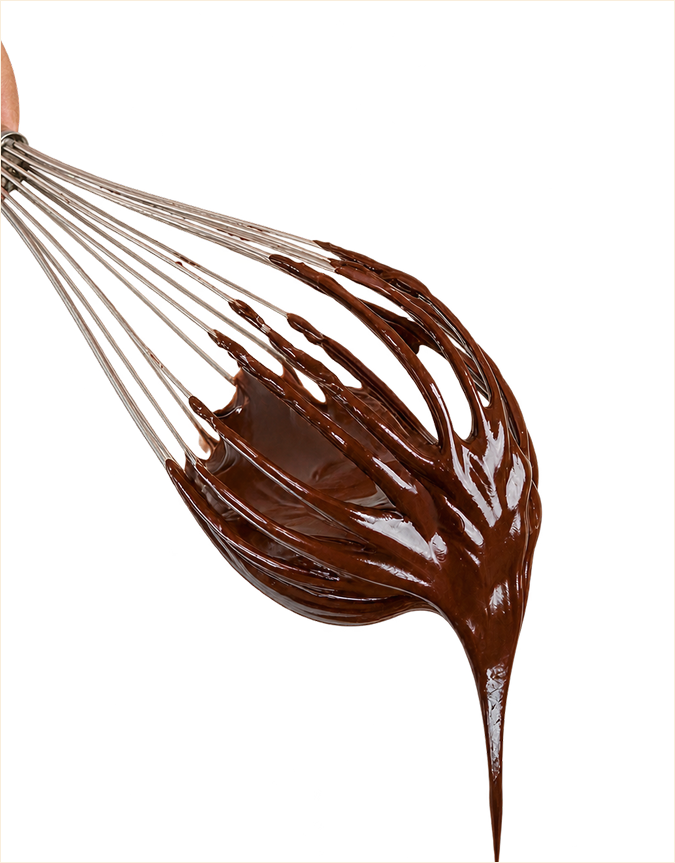
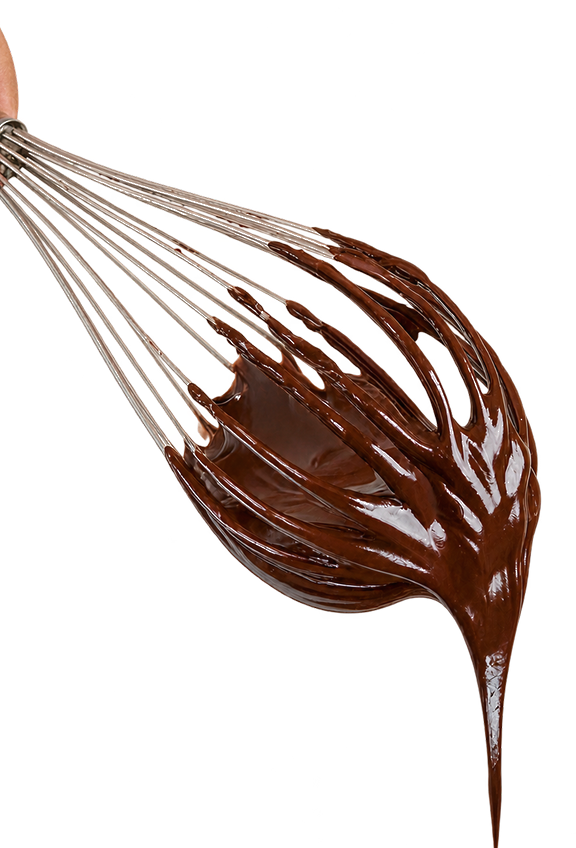
phase 10 revisi tentang kami: hero luas proporsional, whisk mepet dinding tanpa garis border, foto tangga nyata dan background coklat lebar

Changed region(s): [[0.0, 0.0307, 0.9375, 1.0], [0.9688, 0.9811, 1.0, 1.0], [0.0, 0.9811, 0.0312, 1.0]]

diff --git a/resources/views/pages/about.blade.php b/resources/views/pages/about.blade.php
@@ -3,83 +3,95 @@
 @section('title', 'Tentang Kami — Brownies Kelana')
 
 @section('content')
-    {{-- 1. Hero Cerita Brand Brownies Kelana (Caramel Bronze Banner #9b7643) --}}
-    <section class="relative overflow-hidden bg-[#9b7643] text-white">
-        <div class="mx-auto grid max-w-7xl items-center gap-6 px-4 py-10 sm:gap-8 sm:px-6 md:grid-cols-12 lg:gap-12 lg:px-8 lg:py-16">
-            <div class="md:col-span-6">
-                <h1 class="text-2xl font-bold leading-tight tracking-tight text-white sm:text-3xl md:text-4xl lg:text-[40px]">
+    {{-- 1. Hero Cerita Brand Brownies Kelana (Caramel Bronze Banner #9b7643 - Luas, Dalam & Tidak Ceper) --}}
+    <section class="relative overflow-hidden bg-[#9b7643] text-white py-20 sm:py-28 lg:py-36 min-h-[520px] sm:min-h-[580px] lg:min-h-[660px] flex items-center">
+        <div class="mx-auto grid max-w-7xl w-full items-center gap-8 px-4 sm:px-6 md:grid-cols-12 lg:gap-14 lg:px-8">
+            <div class="md:col-span-5 lg:col-span-5">
+                <h1 class="text-3xl font-bold leading-tight tracking-tight text-white sm:text-4xl lg:text-5xl">
                     Selamat Datang di {{ $storeSetting->store_name }}
                 </h1>
-                <p class="mt-4 text-xs leading-relaxed text-[#fcf5eb]/95 sm:mt-5 sm:text-sm lg:text-[15px]">
+                <p class="mt-6 text-sm leading-relaxed text-[#fcf5eb]/95 sm:text-base lg:text-lg max-w-xl">
                     {{ $storeSetting->about_story ?: 'Berdiri sejak tahun 2018, Brownies Kelana hadir untuk menemani setiap momen spesial Anda dengan aneka kue yang lezat dan berkualitas. Kami percaya bahwa setiap gigitan memiliki cerita dan setiap hidangan manis dapat menghadirkan kebahagiaan. Dengan beragam pilihan brownies dan kue yang menggugah selera, kami berusaha menghadirkan cita rasa istimewa untuk berbagai kesempatan, mulai dari camilan sehari-hari, hadiah untuk orang tersayang, hingga pelengkap perayaan spesial.' }}
                 </p>
                 {{-- Sesuai instruksi owner: Bagian Download E-Katalog tidak disertakan --}}
             </div>
-            <div class="md:col-span-6 flex justify-center md:justify-end">
+            <div class="md:col-span-7 lg:col-span-7 flex justify-center md:justify-end">
                 <img src="{{ asset('images/kelana/hero-about-platter.png') }}" alt="Aneka Kue Brownies Kelana di atas Platter"
-                    class="w-full max-w-[420px] sm:max-w-[500px] lg:max-w-[580px] object-contain drop-shadow-2xl">
+                    class="w-full max-w-[620px] lg:max-w-[760px] object-contain drop-shadow-2xl">
             </div>
         </div>
     </section>
 
-    {{-- 2. Bagian Fresh-Baked Pre-order & Whisk Cokelat Mentok Kiri Sesuai Figma --}}
-    <section class="relative overflow-hidden bg-[#fcf8f2] py-8 sm:py-12 lg:py-16">
-        <div class="mx-auto grid grid-cols-12 items-center gap-3 px-3 sm:gap-6 sm:px-6 md:gap-8 lg:gap-10 lg:px-8 max-w-7xl">
-            <div class="col-span-5 sm:col-span-5 -ml-3 sm:-ml-8 md:-ml-14 lg:-ml-20 flex justify-start">
-                <img src="{{ asset('images/kelana/whisk-glossy.png') }}" alt="Whisk Berlumur Cokelat Leleh"
-                    class="w-full max-w-[260px] sm:max-w-[380px] md:max-w-[460px] lg:max-w-[520px] object-contain object-left scale-105 origin-top-left">
-            </div>
-            <div class="col-span-7 sm:col-span-7 pl-1 sm:pl-0">
-                <h2 class="text-base font-bold leading-snug tracking-tight text-[#593822] sm:text-2xl md:text-3xl lg:text-4xl">
-                    Ingin Menikmati Kelezatan<br>Brownies Kelana?
-                </h2>
-                <div class="mt-2.5 space-y-2 text-xs leading-relaxed text-[#593822] sm:mt-5 sm:space-y-4 sm:text-sm md:text-base">
-                    <p>
-                        Kami selalu menyajikan kue yang baru dipanggang. Pastikan Kamu memesan minimal <strong>1 hari sebelumnya</strong> agar kami dapat menyiapkannya dengan sempurna.
-                    </p>
-                    <p>
-                        Untuk pengambilan mandiri di luar, Kamu bisa mengambil pesanan langsung di titik pengambilan resmi yang telah kami tentukan.
-                    </p>
+    {{-- 2. Bagian Fresh-Baked Pre-order & Whisk Cokelat Mepet Dinding Kiri Sesuai Figma --}}
+    <section class="relative overflow-hidden bg-[#fcf8f2] py-16 sm:py-24 lg:py-32 min-h-[440px] flex items-center">
+        {{-- Whisk Cokelat Desktop: Mepet Dinding Kiri Layar (Flush ke Tepi Kiri Viewport Tanpa Gap & Tanpa Garis) --}}
+        <div class="pointer-events-none absolute left-0 top-1/2 -translate-y-1/2 hidden md:block md:w-[440px] lg:w-[500px] xl:w-[560px]">
+            <img src="{{ asset('images/kelana/whisk-glossy.png') }}" alt="Whisk Berlumur Cokelat Leleh"
+                class="w-full object-contain object-left scale-105 origin-left">
+        </div>
+
+        <div class="mx-auto max-w-7xl w-full px-4 sm:px-6 lg:px-8">
+            <div class="grid grid-cols-12 items-center gap-6">
+                {{-- Mobile Whisk (mepet tepi kiri layar di layar kecil) --}}
+                <div class="col-span-5 md:hidden -ml-4 flex justify-start">
+                    <img src="{{ asset('images/kelana/whisk-glossy.png') }}" alt="Whisk Berlumur Cokelat Leleh"
+                        class="w-full max-w-[280px] object-contain object-left scale-110 origin-left">
+                </div>
+
+                {{-- Teks Konten Menyesuaikan dengan Elegan di Sebelah Kanan --}}
+                <div class="col-span-7 md:col-start-6 md:col-span-7 lg:col-start-6 lg:col-span-7 md:pl-6 lg:pl-12">
+                    <h2 class="text-xl sm:text-3xl md:text-4xl lg:text-[44px] font-bold leading-snug tracking-tight text-[#593822]">
+                        Ingin Menikmati Kelezatan<br>Brownies Kelana?
+                    </h2>
+                    <div class="mt-5 sm:mt-7 lg:mt-9 space-y-3.5 sm:space-y-5 text-xs sm:text-base lg:text-lg leading-relaxed text-[#593822]">
+                        <p>
+                            Kami selalu menyajikan kue yang baru dipanggang. Pastikan Kamu memesan minimal <strong>1 hari sebelumnya</strong> agar kami dapat menyiapkannya dengan sempurna.
+                        </p>
+                        <p>
+                            Untuk pengambilan mandiri di luar, Kamu bisa mengambil pesanan langsung di titik pengambilan resmi yang telah kami tentukan.
+                        </p>
+                    </div>
                 </div>
             </div>
         </div>
     </section>
 
-    {{-- 3. Kolase 3 Foto "Temukan kebahagiaan di setiap Rasa" Bergelombang Sesuai Gambar 1 & asset 2.zip --}}
-    <section class="relative overflow-hidden bg-[#fcf8f2] pt-4 pb-12 sm:pb-16 lg:pb-20">
-        {{-- Latar belakang blok cokelat gelap (#53311a) di bagian bawah foto dengan pita gelombang --}}
-        <div class="pointer-events-none absolute inset-x-0 bottom-0 top-[42%] bg-[#53311a]">
+    {{-- 3. Kolase 3 Foto "Temukan kebahagiaan di setiap Rasa" - TANGGA NYATA & BACKGROUND LEBAR SESUAI FIGMA --}}
+    <section class="relative overflow-hidden bg-[#fcf8f2] pt-12 sm:pt-16 lg:pt-24 pb-32 sm:pb-40 lg:pb-52">
+        {{-- Latar belakang blok cokelat gelap (#53311a) LEBAR & TINGGI di bagian bawah foto dengan pita gelombang --}}
+        <div class="pointer-events-none absolute inset-x-0 bottom-0 top-[35%] sm:top-[36%] lg:top-[38%] bg-[#53311a]">
             <img src="{{ asset('images/kelana/about-ngisoran.png') }}" alt=""
-                class="absolute bottom-2 sm:bottom-4 left-0 w-full object-cover opacity-95">
+                class="absolute bottom-0 left-0 w-full min-h-[200px] sm:min-h-[280px] lg:min-h-[360px] object-cover opacity-90">
         </div>
 
-        <div class="relative z-10 mx-auto max-w-7xl px-3 sm:px-6 lg:px-8">
-            <div class="grid grid-cols-12 items-end gap-2 sm:gap-5 lg:gap-8">
-                {{-- Foto 1 (Kiri): culkle 1.png (Tangan mematahkan cookies/brownies) --}}
-                <div class="col-span-4 self-center pb-4 sm:pb-8 lg:pb-12">
-                    <div class="overflow-hidden shadow-xl sm:shadow-2xl">
+        <div class="relative z-10 mx-auto max-w-7xl px-4 sm:px-6 lg:px-8">
+            {{-- Grid 3 Kolom Bertangga Nyata (Step 1 -> Step 2 -> Step 3) --}}
+            <div class="grid grid-cols-12 items-start gap-3 sm:gap-6 lg:gap-10">
+                {{-- Foto 1 (Kiri): culkle 1.png - TANGGA 1 (PALING TINGGI / ATAS) --}}
+                <div class="col-span-4 self-start">
+                    <div class="overflow-hidden shadow-2xl">
                         <img src="{{ asset('images/kelana/about-cukle.png') }}" alt="Brookies Brownies Kelana"
-                            class="h-44 w-full object-cover sm:h-72 md:h-84 lg:h-96">
+                            class="h-60 sm:h-84 md:h-[400px] lg:h-[460px] w-full object-cover">
                     </div>
                 </div>
 
-                {{-- Kolom Tengah: Judul "Temukan kebahagiaan di setiap Rasa" + Foto 2 senyum 1.png --}}
+                {{-- Kolom Tengah: Judul "Temukan kebahagiaan di setiap Rasa" + Foto 2 senyum 1.png - TANGGA 2 (TENGAH / TINGGI) --}}
                 <div class="col-span-4 flex flex-col items-center text-center">
-                    <div class="mb-3 sm:mb-5 flex justify-center">
+                    <div class="mb-4 sm:mb-6 flex justify-center">
                         <img src="{{ asset('images/kelana/about-heading-rasa.png') }}" alt="Temukan kebahagiaan di setiap Rasa"
-                            class="h-10 sm:h-16 md:h-20 lg:h-24 object-contain">
+                            class="h-12 sm:h-16 md:h-20 lg:h-24 object-contain">
                     </div>
-                    <div class="w-full overflow-hidden shadow-xl sm:shadow-2xl">
+                    <div class="w-full overflow-hidden shadow-2xl">
                         <img src="{{ asset('images/kelana/about-senyum.png') }}" alt="Kebahagiaan Bersama Brownies Kelana"
-                            class="h-56 w-full object-cover sm:h-84 md:h-[400px] lg:h-[460px]">
+                            class="h-72 sm:h-96 md:h-[460px] lg:h-[540px] w-full object-cover">
                     </div>
                 </div>
 
-                {{-- Foto 3 (Kanan): tepunglop 1.png (Tangan mengolah adonan tepung) --}}
-                <div class="col-span-4 self-end pt-6 sm:pt-12 md:pt-16 lg:pt-24">
-                    <div class="overflow-hidden shadow-xl sm:shadow-2xl">
+                {{-- Foto 3 (Kanan): tepunglop 1.png - TANGGA 3 (PALING BAWAH / TURUN DALAM) --}}
+                <div class="col-span-4 self-start pt-28 sm:pt-44 lg:pt-60">
+                    <div class="overflow-hidden shadow-2xl">
                         <img src="{{ asset('images/kelana/about-tepunglop.png') }}" alt="Proses Adonan Penuh Cinta Brownies Kelana"
-                            class="h-40 w-full object-cover sm:h-64 md:h-72 lg:h-80">
+                            class="h-60 sm:h-80 md:h-96 lg:h-[440px] w-full object-cover">
                     </div>
                 </div>
             </div>
@@ -87,7 +99,7 @@
     </section>
 
     {{-- 4. Jam Operasional, Kontak WhatsApp & Peta Lokasi Toko + Titik Pickup --}}
-    <section class="bg-[#fcf8f2] py-10 sm:py-14">
+    <section class="bg-[#fcf8f2] py-14 sm:py-20">
         <div class="mx-auto max-w-6xl px-4 sm:px-6 lg:px-8">
             <div class="grid gap-6 lg:grid-cols-12">
                 {{-- Jam Operasional Dinamis dari Database --}}
